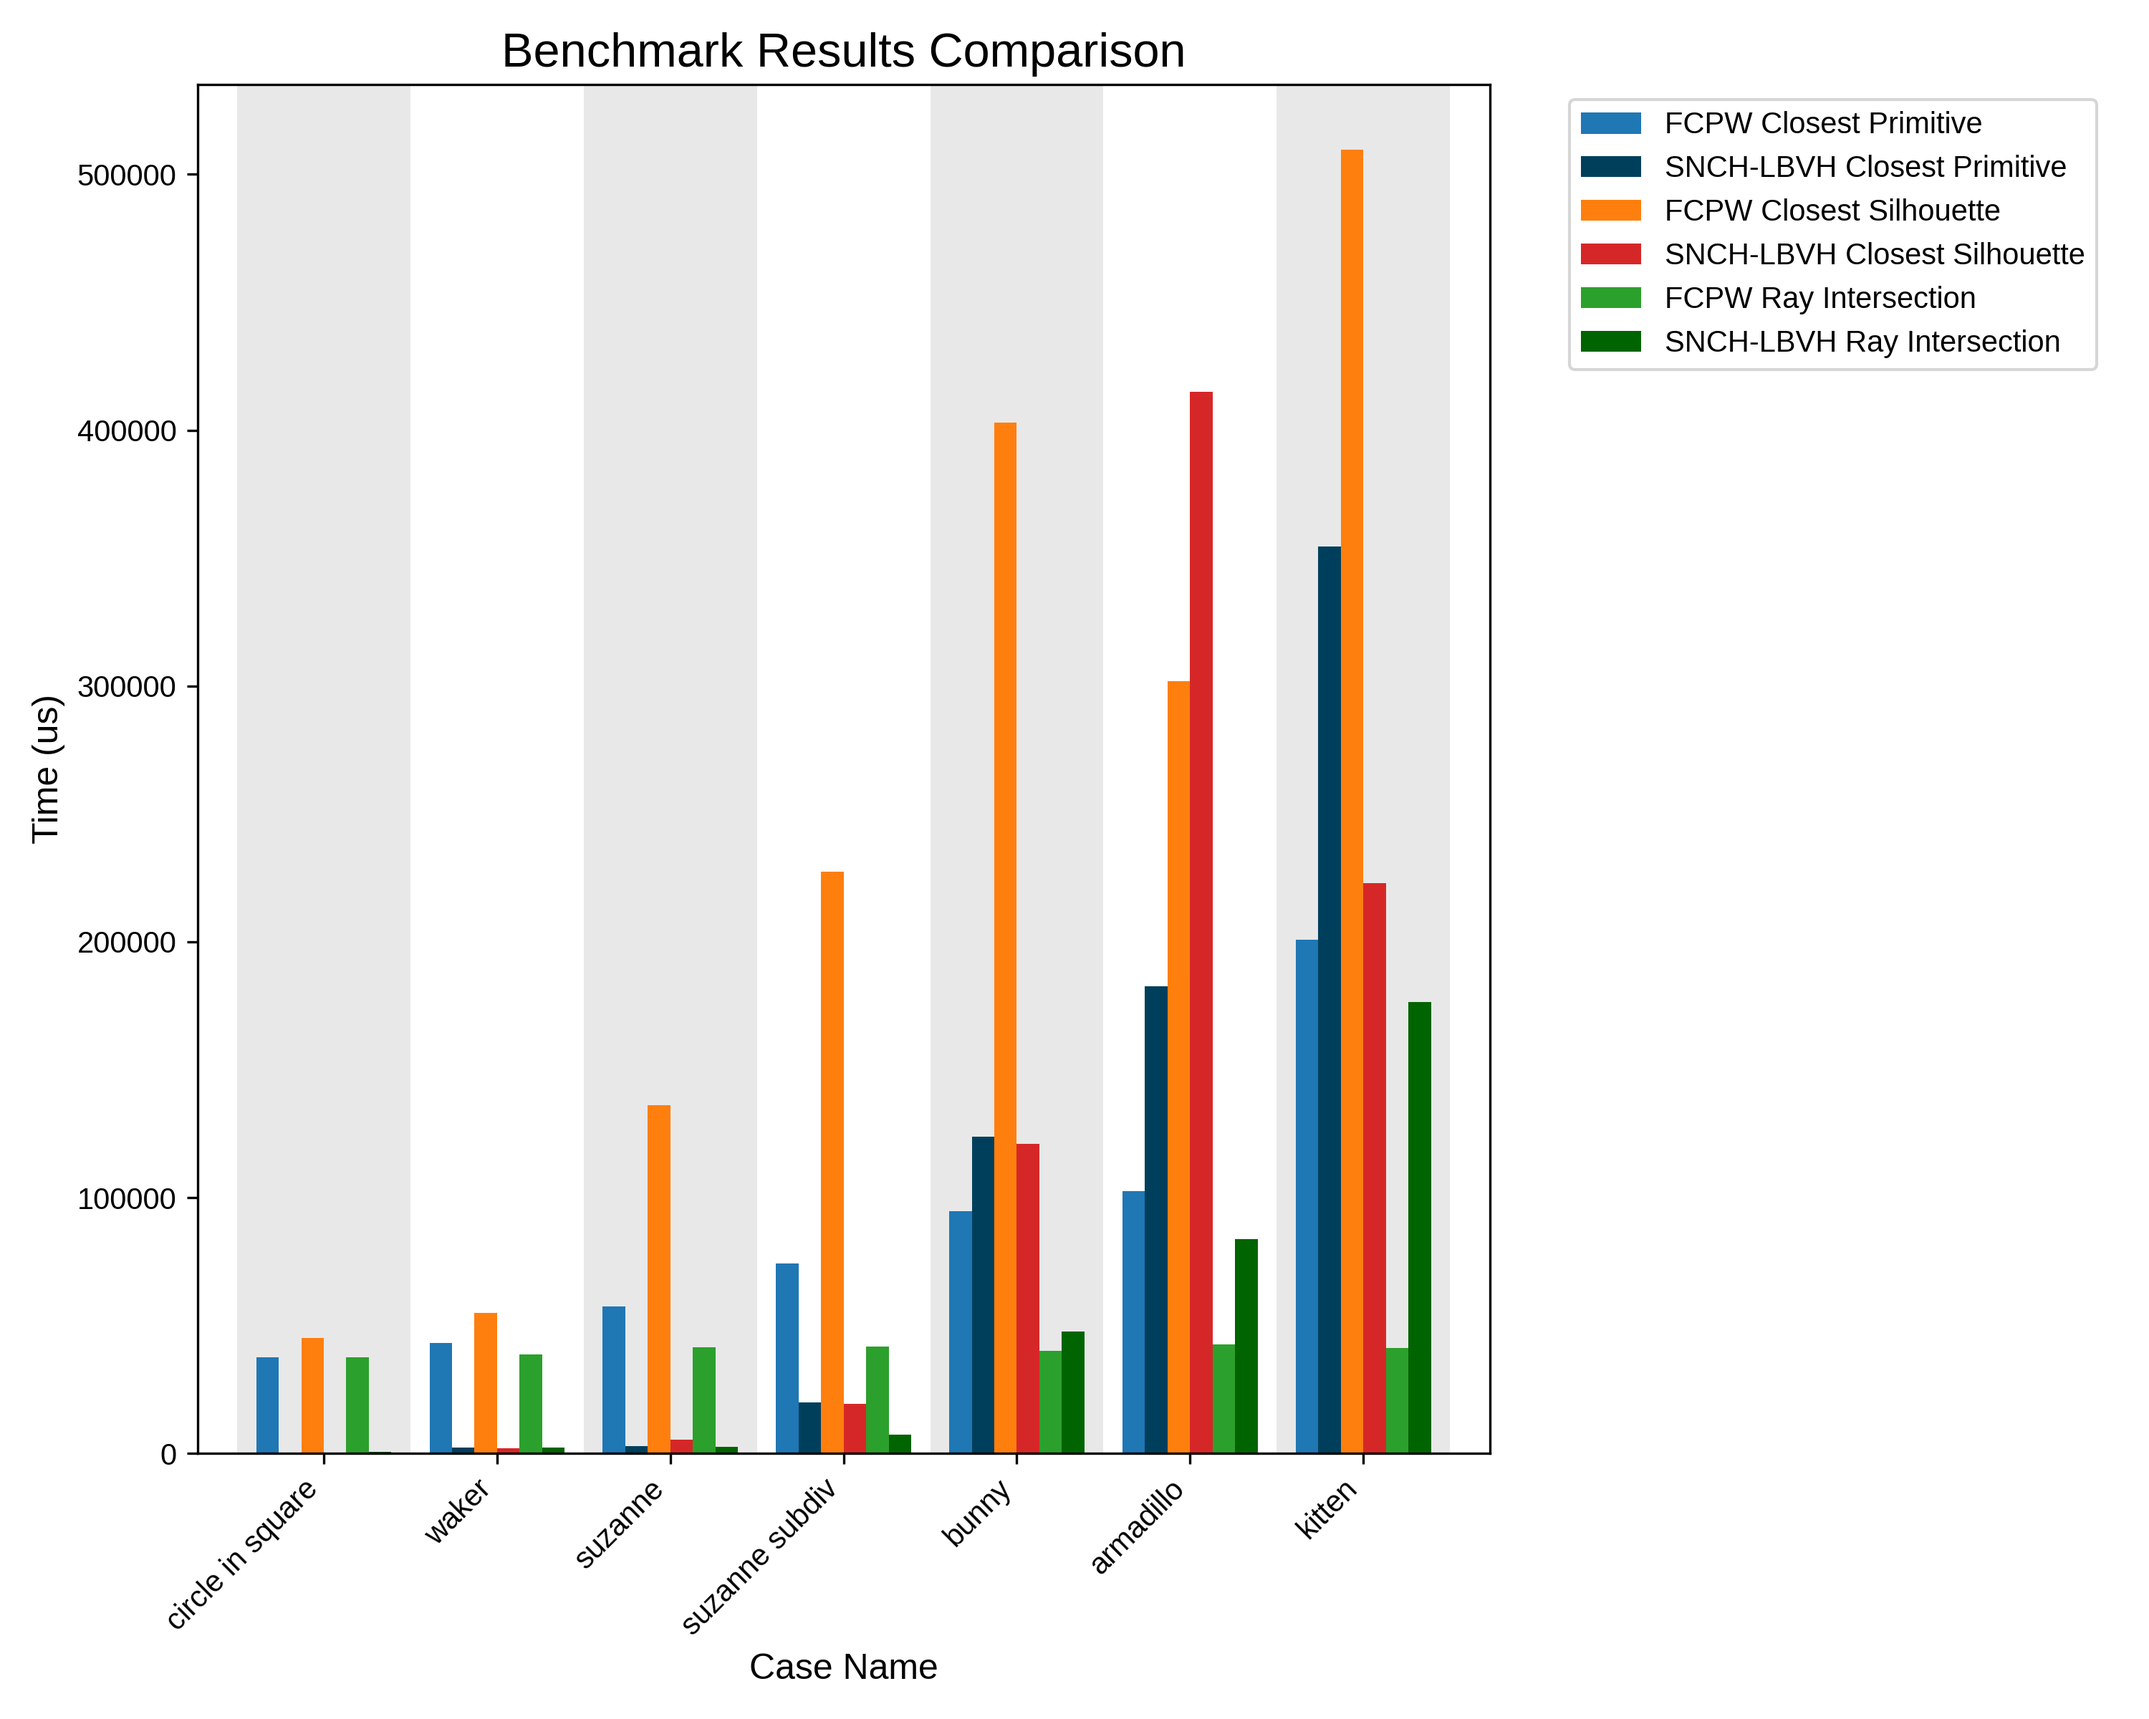
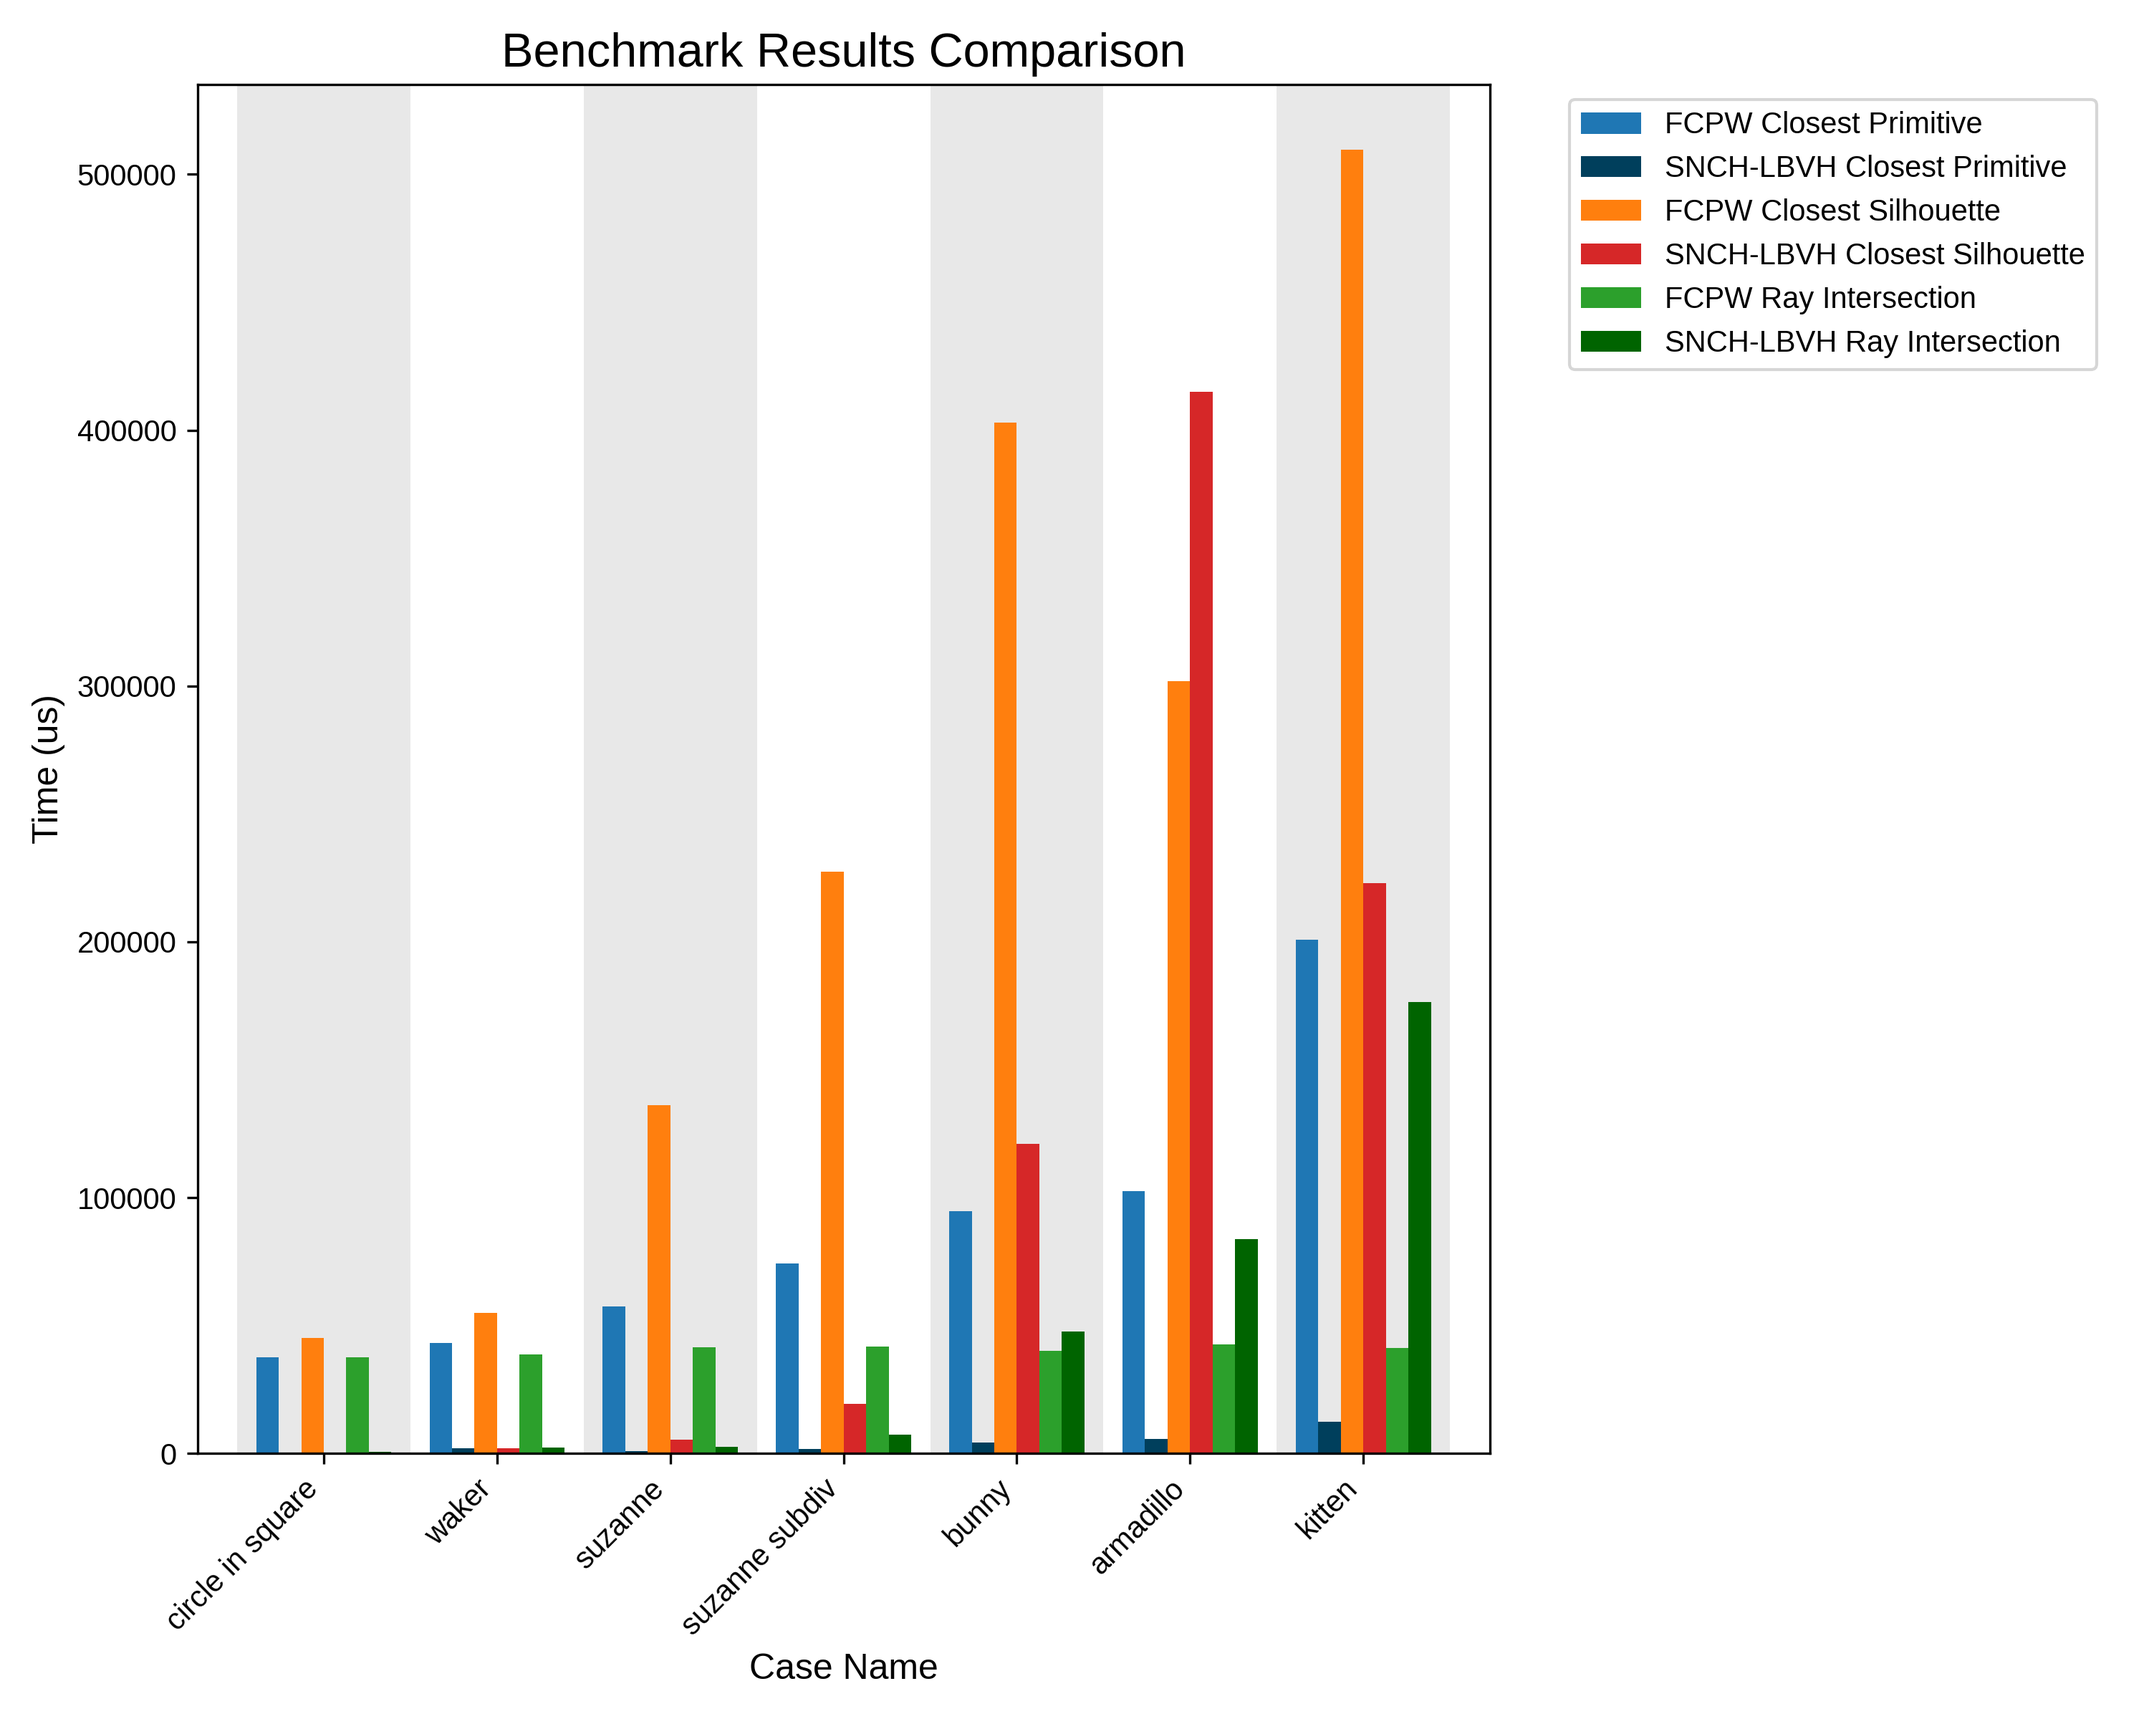
Performance issue resolved in closest primitive query.

diff --git a/README.md b/README.md
@@ -20,6 +20,8 @@ This is a header-only library. The fcpw submodule is only used for benchmarking.
 
 ## Performance
 
+> Update (2024/11/8): performance issue resolved in closest primitive query, now SNCH-LBVH performs significantly faster than fcpw in all test cases.
+
 The current implementation is quick-and-dirty and does not fully consider the locality of memory access. Therefore, although this library performs significantly better than the fcpw library in 2D and 3D cases with a low number of faces, it performs weaker than the fcpw library when the GPU memory occupancy is large. This issue has been identified and will be resolved in a subsequent update.
 
 ![benchmark result](benchmark.png)
